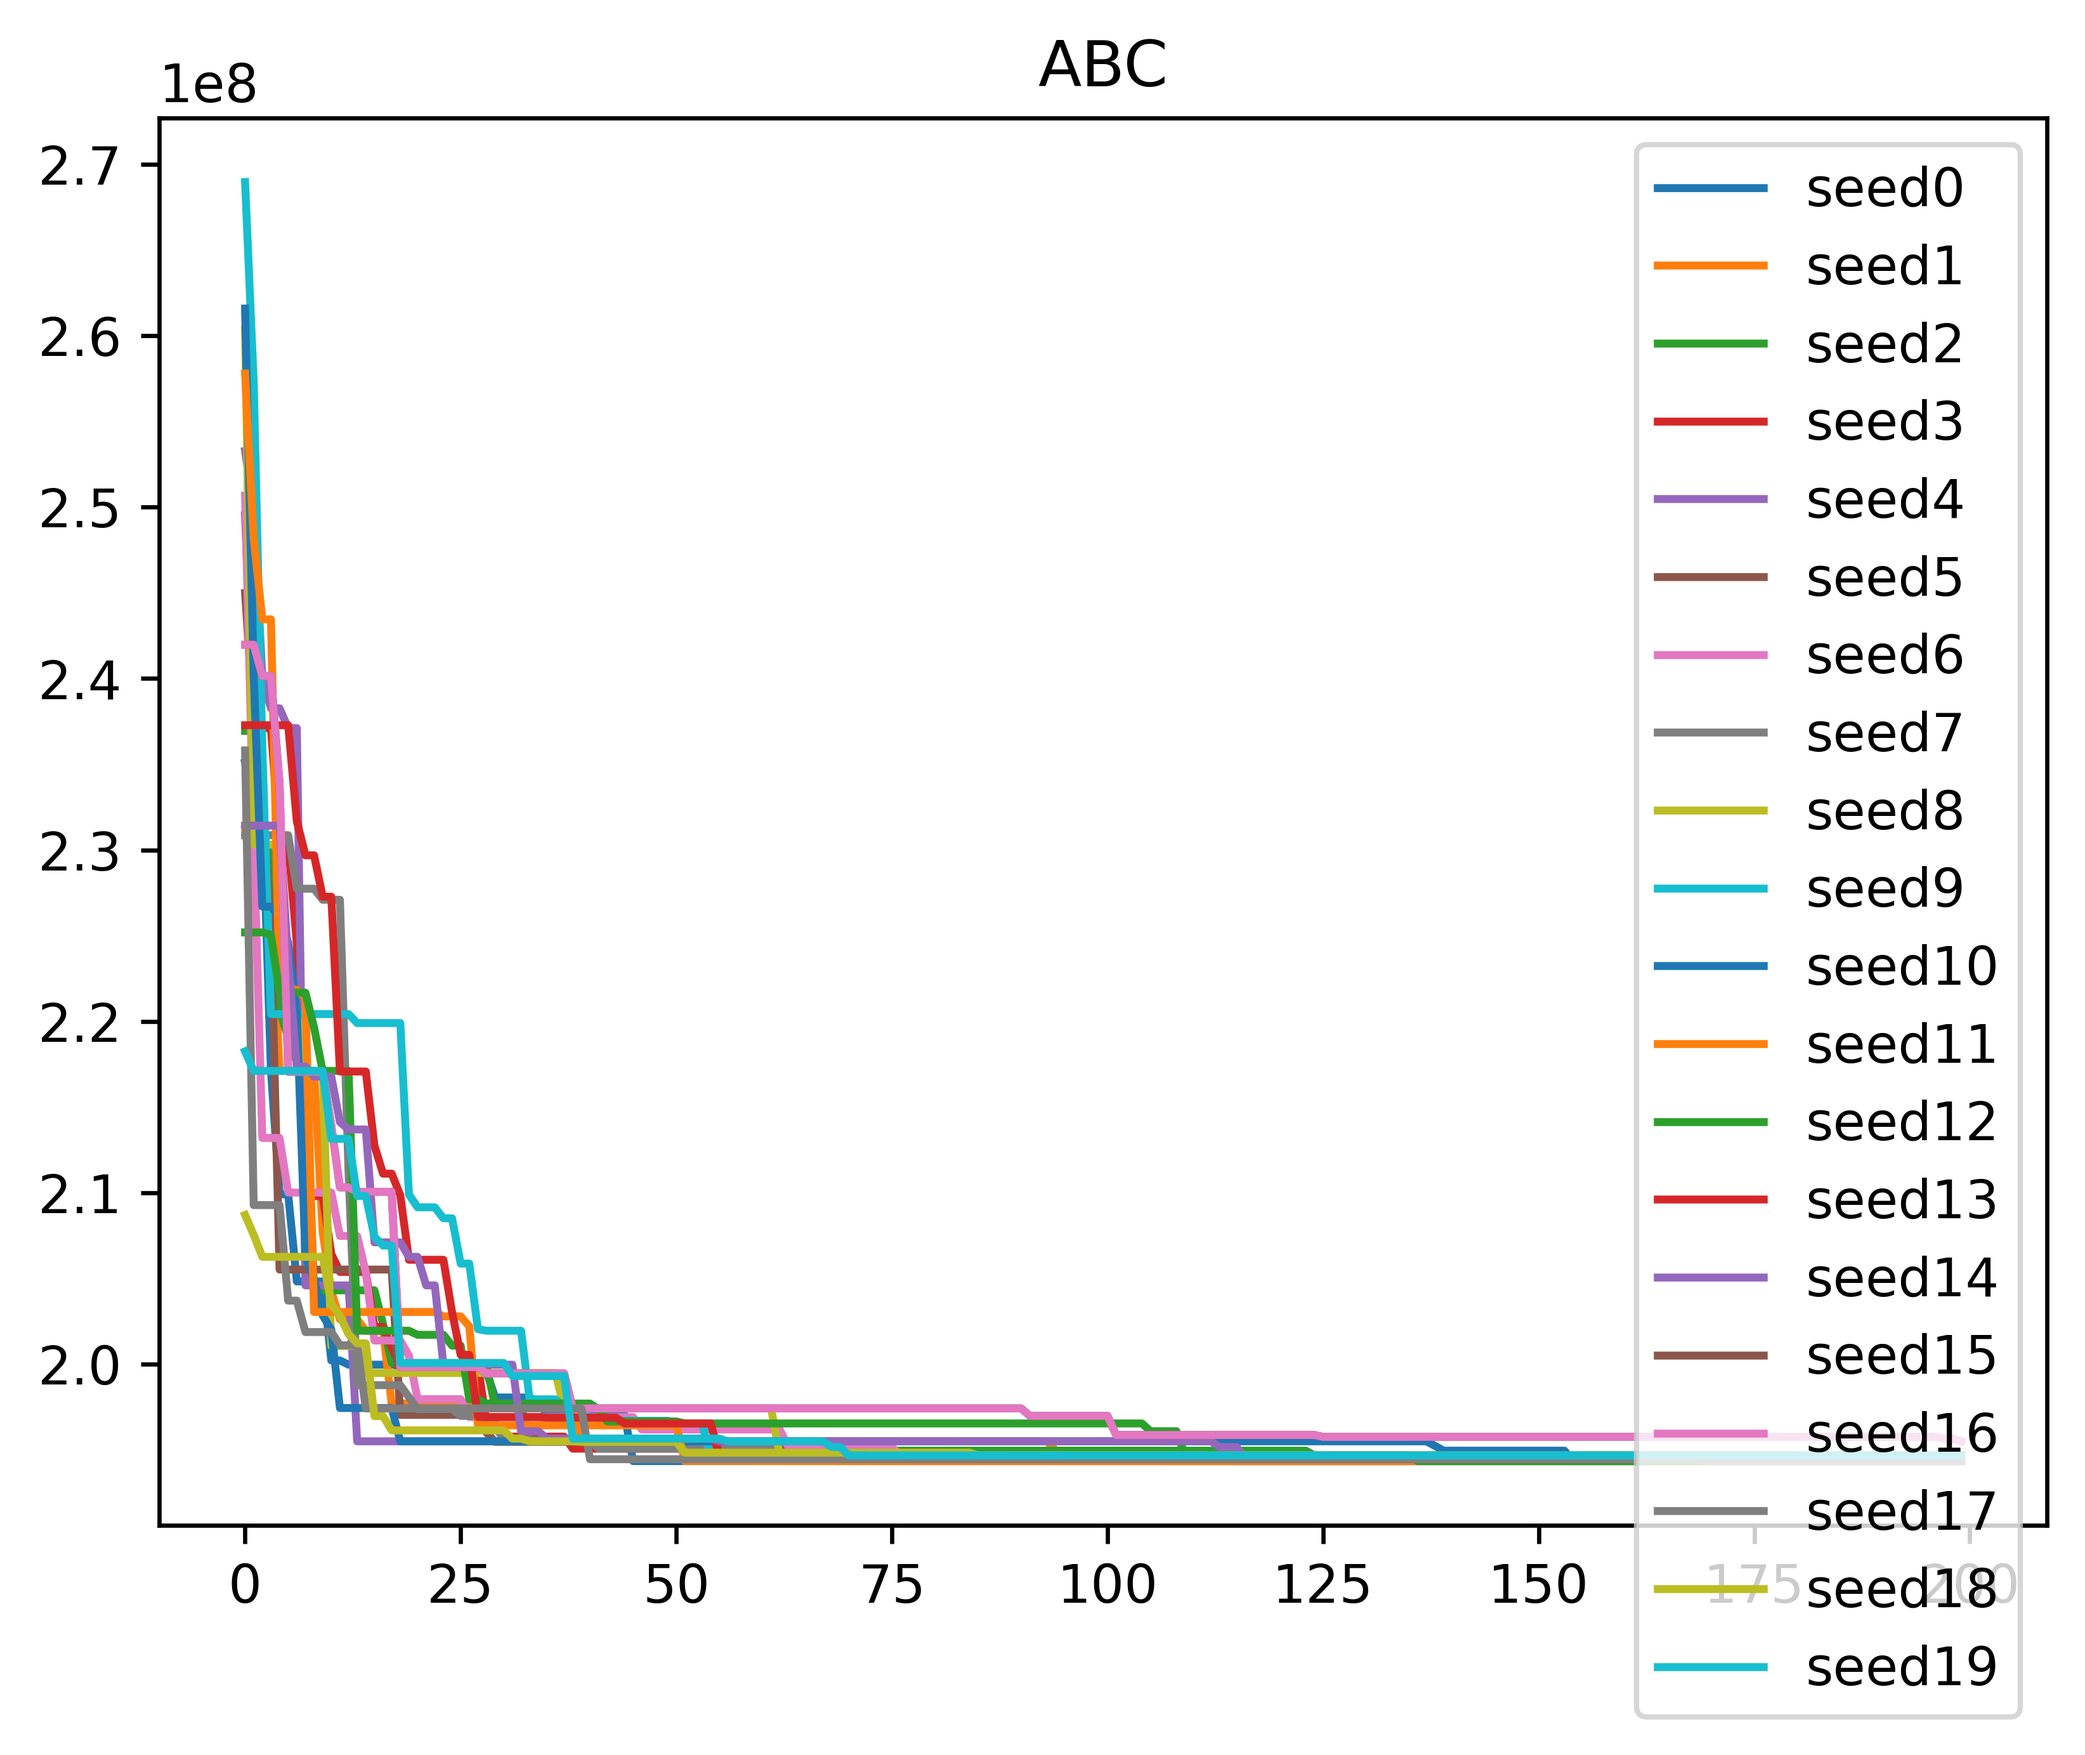
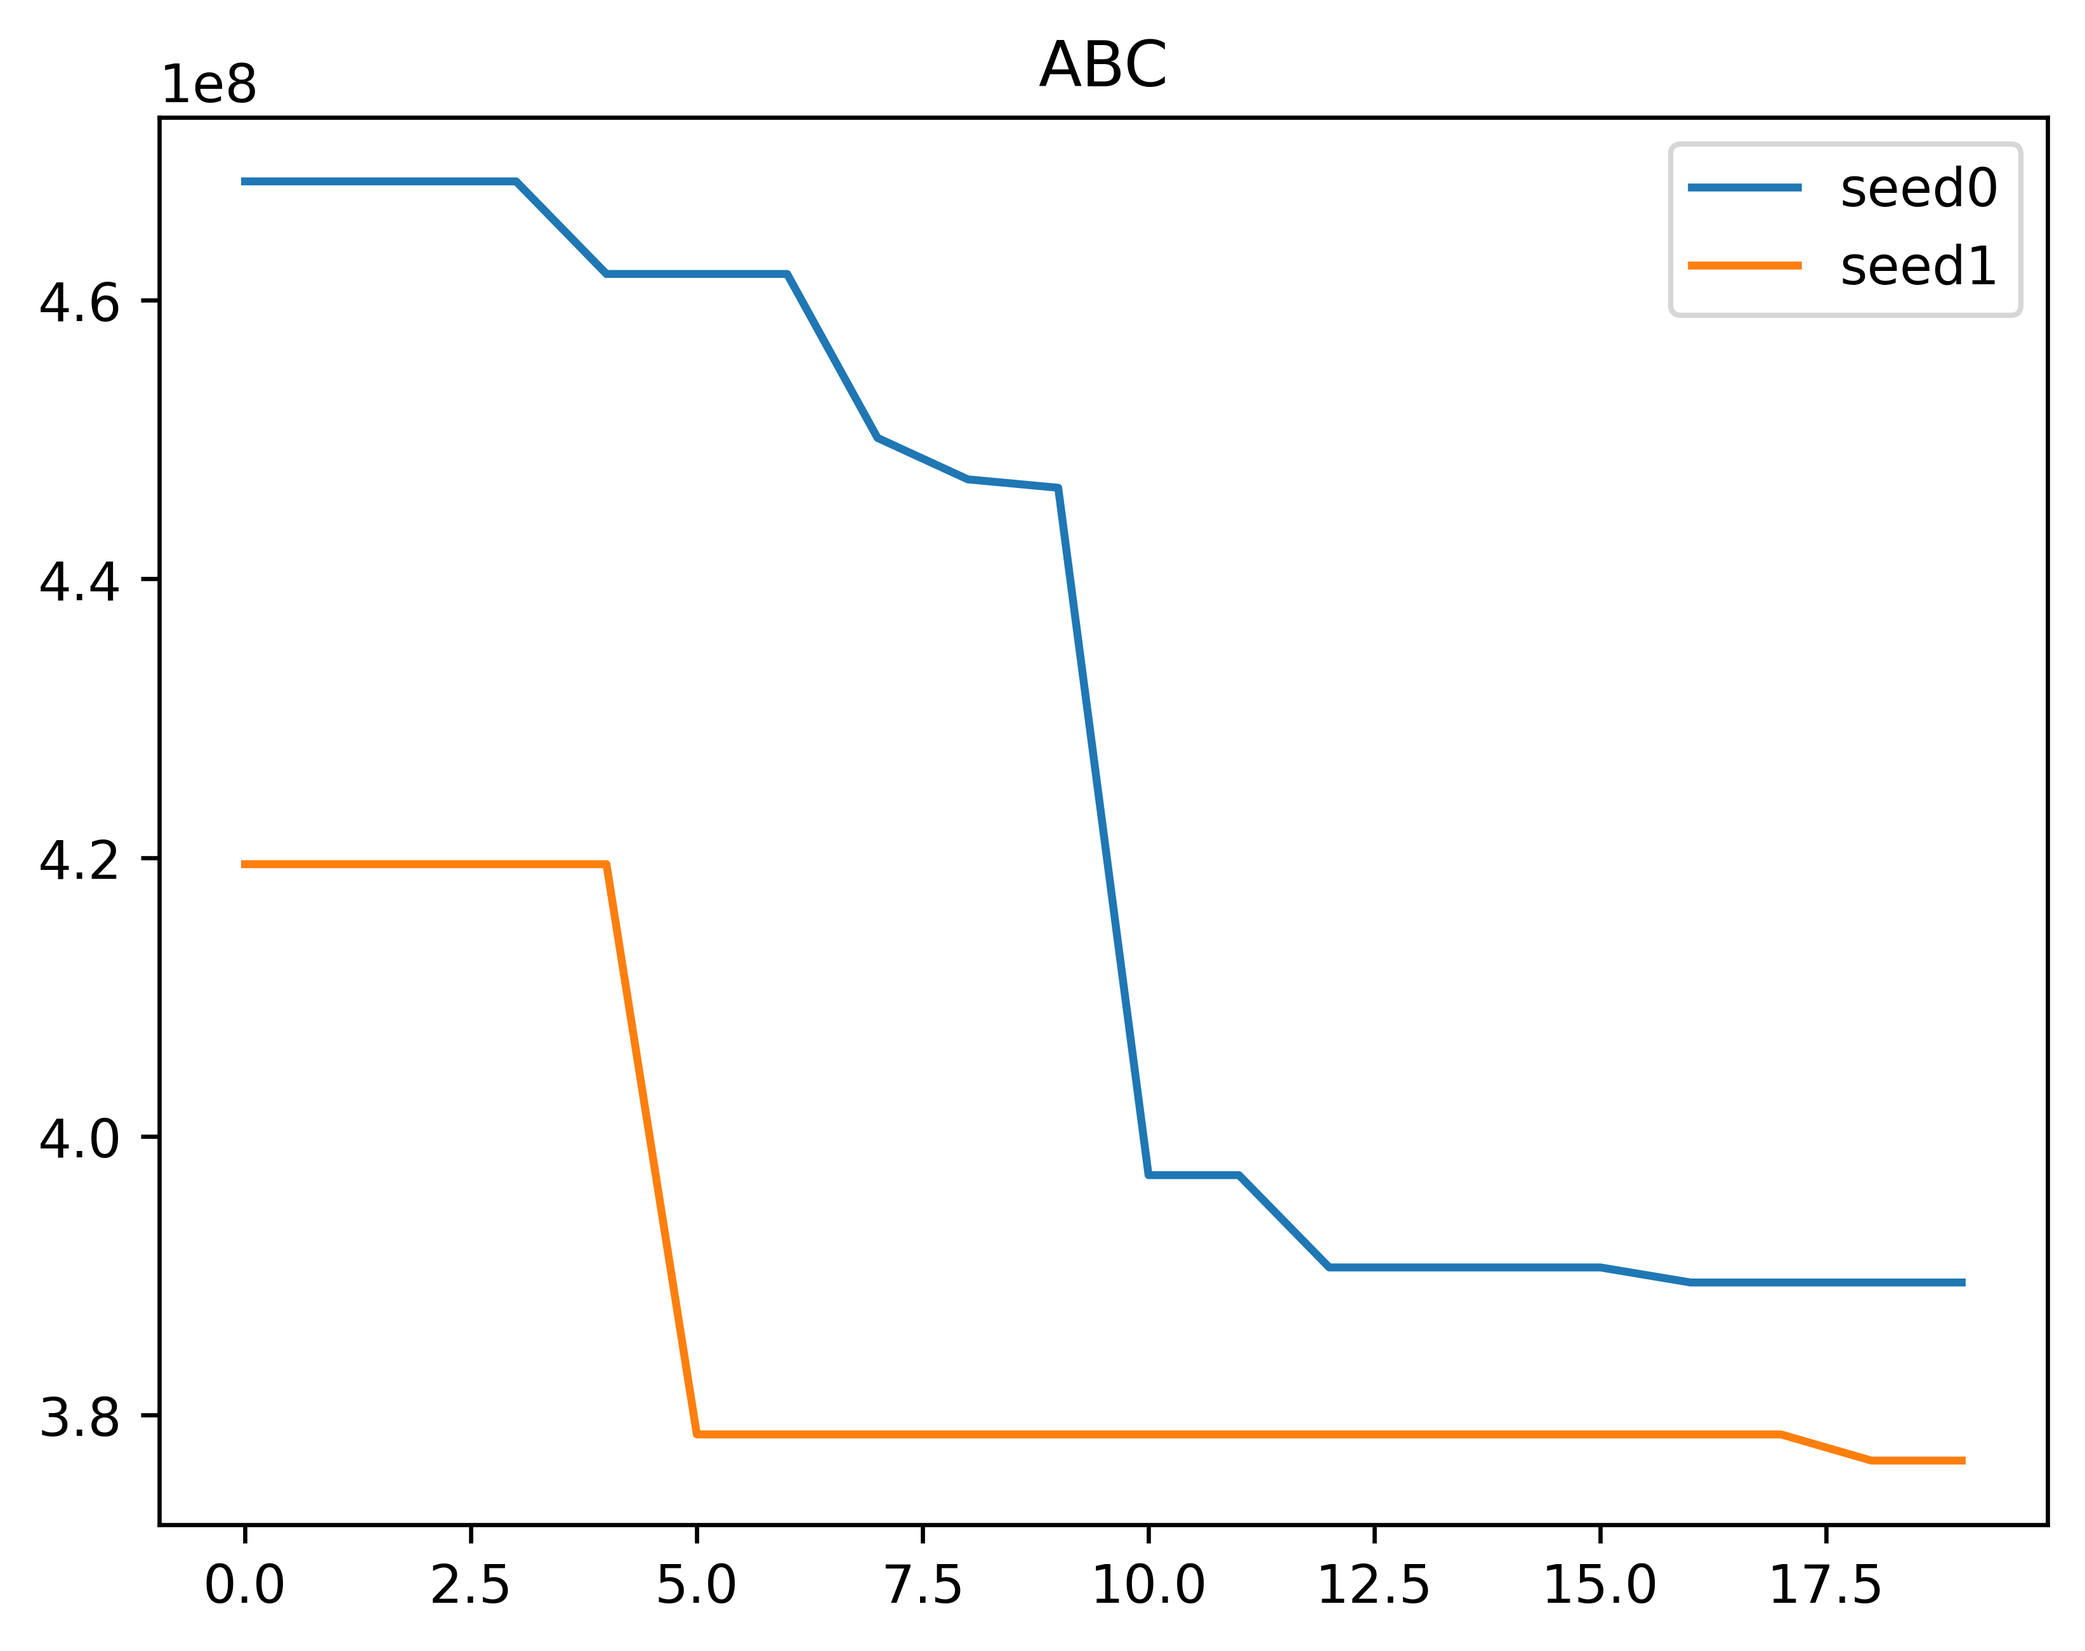
code plot pattern relationship

diff --git a/NetworkResilience/LearningPattern.cpp b/NetworkResilience/LearningPattern.cpp
@@ -9,6 +9,8 @@ int FindValIndex(const vector<int>& vec, int key);
 // compare three number and return the largest number
 // 1: A is the largest, 2: B is the largest, 3: C is the largest
 // 0: all three are equal
+// Notes: when use this, follow the sequence
+// A--After, B--Before,  C--Same
 int CompareThreeNumber(double A, double B, double C)
 {
 	// case 0: if all three numbers are equal
@@ -172,4 +174,44 @@ void Algorithm::LearnPatternRelation_Score(const SCHCLASS& sol, bool isGloablImp
 			else Pattern[AlinkId].Relation[ComRelationLinkId].UpdateScore(r, RewardImproveLocal);
 		}
 	}
+}
+
+// print the relationship into files
+void Algorithm::printDomRelation(int seed) const
+{
+	ofstream OutFile;
+	//OutFile << "Seed,First,Second,AferScore,BeforeScore,SameScore,Dom" << endl;
+	OutFile.open("..//OutPut//DomRelation.txt", ios::app);
+	for (size_t i = 0; i < setOfFailureLinks.size(); i++)
+	{
+		for (size_t j = 0; j < setOfFailureLinks.size(); j++)
+		{
+			int Alink = setOfFailureLinks.at(i);
+			int Blink = setOfFailureLinks.at(j);
+			double AfterScore, BeforeScore, SameScore;
+			if (CompareScoreMethod == enum_CompareScoreMethod::Ave)
+			{
+				AfterScore = Pattern[i].Relation[j].AfterScore_Ave;
+				BeforeScore = Pattern[i].Relation[j].BeforeScore_Ave;
+				SameScore = Pattern[i].Relation[j].SamePeriodScore_Ave;
+			}
+			else if (CompareScoreMethod == enum_CompareScoreMethod::Total)
+			{
+				AfterScore = Pattern[i].Relation[j].AfterScore_Total;
+				BeforeScore = Pattern[i].Relation[j].BeforeScore_Total;
+				SameScore = Pattern[i].Relation[j].SamePeriodScore_Total;
+			}
+			int DomVal = CompareThreeNumber(AfterScore, BeforeScore, SameScore);
+			OutFile << seed << ",";
+			OutFile << Alink << ",";
+			OutFile << Blink << ",";
+			OutFile << AfterScore << ",";
+			OutFile << BeforeScore << ",";
+			OutFile << SameScore << ",";
+			OutFile << DomVal << endl;
+		}
+	}
+
+	OutFile.close();
+
 }

diff --git a/Script/PostProcessDataFuns.py b/Script/PostProcessDataFuns.py
@@ -6,9 +6,6 @@
 import pandas as pd
 import matplotlib.pyplot as plt
 import os
-
-from pandas.core.accessor import PandasDelegate
-
 # root_folder = r"C:\Users\phdji\OneDrive - Danmarks Tekniske Universitet\JuanJuanLin\Tests2022/"
 
 label_font = {'family': 'Times New Roman', 
@@ -21,6 +18,14 @@ tick_font = {'family': 'Times New Roman',
 			  'size': 10
             }
 
+
+def getBestSeed(_folder:str):#return the best seed number
+	"""Input is the folder
+	"""
+	fn = _folder+'/BestSeed.txt'
+	df = pd.read_csv(fn)
+	best_seed = df["Seed"][0]
+	return int(best_seed)	
 
 def updateOperatorName(fn:str):
 	"""
@@ -137,7 +142,6 @@ def TuneReward():
 	folder = root + "j=8\\"
 	CompareOneFolder(_folder=folder,_name="j=8")
 
-
 def effect_of_operators(_folder):
 	"""test the effect of operators
 	"""
@@ -151,7 +155,22 @@ def effect_of_operators(_folder):
 def get_files():
 	"""generate the list of files names
 	"""
-	pass	
+	pass
+    
+def plotRelation(_folder:str):
+	"""read and plot relationship
+	plot table reference
+	https://stackoverflow.com/questions/32137396/how-do-i-plot-only-a-table-in-matplotlib
+	"""
+	# plot table
+	BestSeed = getBestSeed(_folder)
+	fn = _folder +"/DomRelation.txt"
+	data = pd.read_csv(fn)
+	num_row =data.shape[0]
+	print(num_row)
+ 
+
+
 
 if __name__=='__main__':
 	"""

diff --git a/Script/PostProcessMain.py b/Script/PostProcessMain.py
@@ -12,7 +12,6 @@ import PlotOperatorConverge
 root_folder = r'M:/LinJuan/RandomSeed/'
 # plot 1 plot the heatmap for the optimal pattern
 
-FailureLinks = [0, 6, 19, 22, 26, 27, 34, 38, 42, 55, 59, 73]
 def EffectOfOperators():
     # convergence the algorithm 
     ## each operator 
@@ -29,9 +28,20 @@ def CompareThree():
     psf.CompareOneFolder(OperatorFolder,"CompareThree")
 
 
+def PlotFinalRelation():
+    """visulise the dominate relationship
+    """
+    test_folder = "M:/LinJuan/0_ALNS/"
+    bs = psf.getBestSeed(test_folder)
+    print("Best Seed = {0}".format(bs))
+    psf.plotRelation(test_folder)
+    
+
 if __name__ == "__main__":
-    EffectOfOperators()
+    # EffectOfOperators()
     # CompareThree()
+    PlotFinalRelation()
+    
 
     # testfolder =  root_folder + "/RemoveOperator/"
     # psf.CompareOneFolder(testfolder,"RemoveOp")

diff --git a/Script/para.py b/Script/para.py
@@ -17,8 +17,10 @@ isDebug = False
 #             1,2,3,4,5,6,7,8,9,10,11,12,13,14,15,16,16,18,19,20]
 SeedPool = [1,2,3,4,5,6,7,8,9,10,11,12,13,14,15,16,16,18,19,20]
 # NumOfTestSeed = len(SeedPool)
-NumOfTestSeed = 20
-NumofIter = 200
+NumOfTestSeed = 2
+# FailureLinks = [0, 6, 19, 22, 26, 27, 34, 38, 42, 55, 59, 73]
+FailureLinks = [0,2,6,12,16,19,22,26,27,29,31,34,42,50,55,59]
+NumofIter = 20
 global_case_id = 0
 
 class ParaClass(object):
@@ -48,7 +50,7 @@ class ParaClass(object):
             "ReactionFactor": 0.5,
             "SelectOperator": "ALNS",
             "OneDimEsp": 0.0000001,
-            "UEeps": 0.01,
+            "UEeps": 0.1,
             "UEmaxIter": 500
         }
 

diff --git a/Script/main.py b/Script/main.py
@@ -127,7 +127,7 @@ def TestDifferntOpSelect(mf):
     para.global_case_id = para.global_case_id + 1
     TestOneCase(mf, adjust_para, _case_id=para.global_case_id,
                 _case_name="ALNS")
-
+    exit()
     adjust_para['SelectOperator'] = "Uni"
     para.global_case_id = para.global_case_id + 1
     if para.global_case_id>=stop_number:
@@ -191,9 +191,9 @@ if __name__ == "__main__":
     para.Copy_input_and_test_files(mf)
 
     # BenchmarkParadoxNet(mf)
-    TestSingleOperator(mf)
+    # TestSingleOperator(mf)
     # TestRewardVal(mf)
-    # TestDifferntOpSelect(mf)
+    TestDifferntOpSelect(mf)
 
     # ------------------Test GA Function
     # TestGa(mf)

diff --git a/NetworkResilience/OpenCloseFiles.cpp b/NetworkResilience/OpenCloseFiles.cpp
@@ -63,6 +63,11 @@ void OpenAndCleanFiles(){
 	OutFile << "Seed,First,Second,Score,Prob" << endl;
 	OutFile.close();
 
+
+	OutFile.open("..//OutPut//DomRelation.txt", ios::trunc);
+	OutFile << "Seed,First,Second,AferScore,BeforeScore,SameScore,Dom" << endl;
+	OutFile.close();
+
 	//OutFile.open("..//OutPut//HHPrintPatternScore.txt", ios::trunc);
 	//OutFile << "Seed,First,Second,Score,Prob" << endl;
 	//OutFile.close();

diff --git a/NetworkResilience/ABC.cpp b/NetworkResilience/ABC.cpp
@@ -135,6 +135,7 @@ void Algorithm::ABCMain()
 		CpuTimes.push_back((double)((Et - St)/CLOCKS_PER_SEC)); // time unit is second
 		PrintFinal(s); 
 		printPattern(s);
+		printDomRelation(s);
 
 		if (GlobalBest.Fitness < BestSeedVal)
 		{

diff --git a/NetworkResilience/ABC.h b/NetworkResilience/ABC.h
@@ -121,6 +121,7 @@ public:
 	int SelectOperator_ALNS();
 	void IniOperatorProb_ANLS();
 	void printPattern(int seedid);
+	void printDomRelation(int seed) const;
 };
 
 
